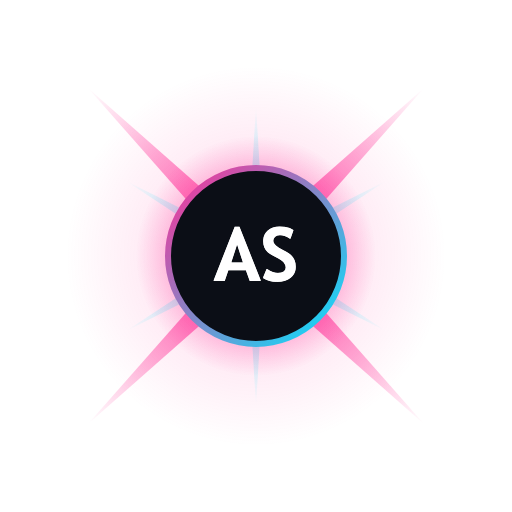
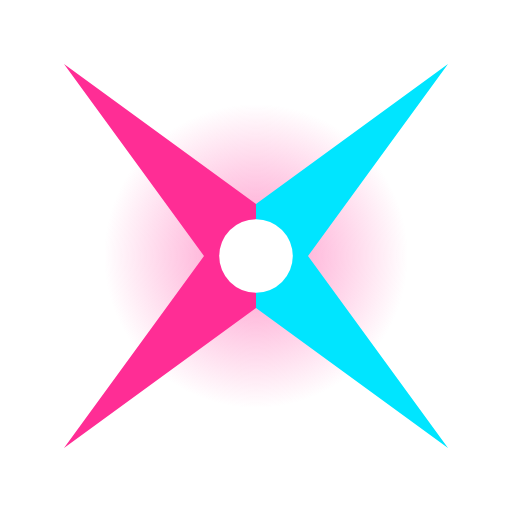
feat(astrospike): add the header GitHub link, and give the hub the real mark
The GitHub link joins the header's far corner exactly as on the other
tools, with the How-to pill stepping left to make room. The hub's tool card
and detail page swap the placeholder AS badge for the design system's
astrospike-mark, rasterized at 512px from the same SVG the app header
wears. The two hub visual baselines showing the mark are deleted for CI to
reseed.

diff --git a/tools/astrospike/src/app/app.html b/tools/astrospike/src/app/app.html
@@ -5,6 +5,7 @@
   tagline="Diffraction spike studio"
   logoSrc="assets/img/astrospike-mark.svg"
   logoLink="/tool/astrospike"
+  githubLink="https://github.com/sidthesloth92/db-astro-suite"
 ></dba-ui-header>
 
 <!-- Title-bar action. It sits over the header rather than inside the pane

diff --git a/tools/astrospike/src/app/app.css b/tools/astrospike/src/app/app.css
@@ -28,7 +28,8 @@
 .as-titlebar-actions {
   position: absolute;
   top: 15px;
-  right: 24px;
+  /* Clear of the header's own GitHub link, which keeps the far corner. */
+  right: 68px;
   z-index: 30;
   display: flex;
   align-items: center;
